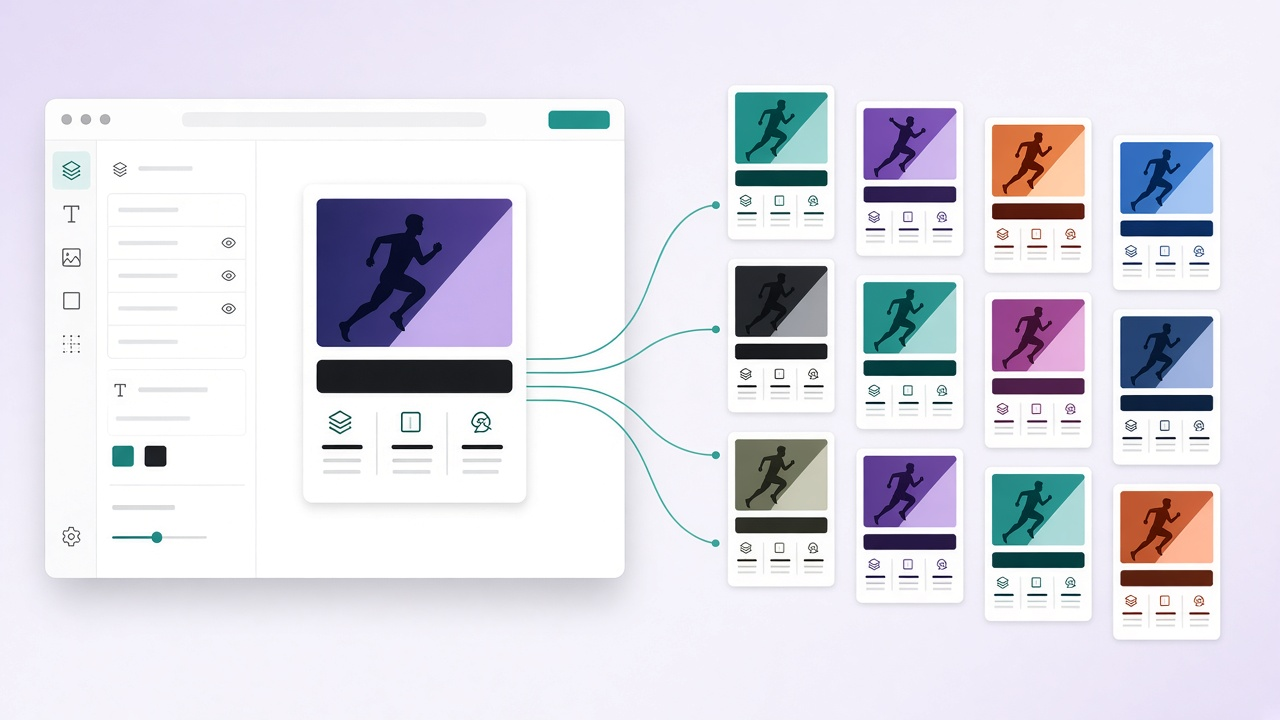
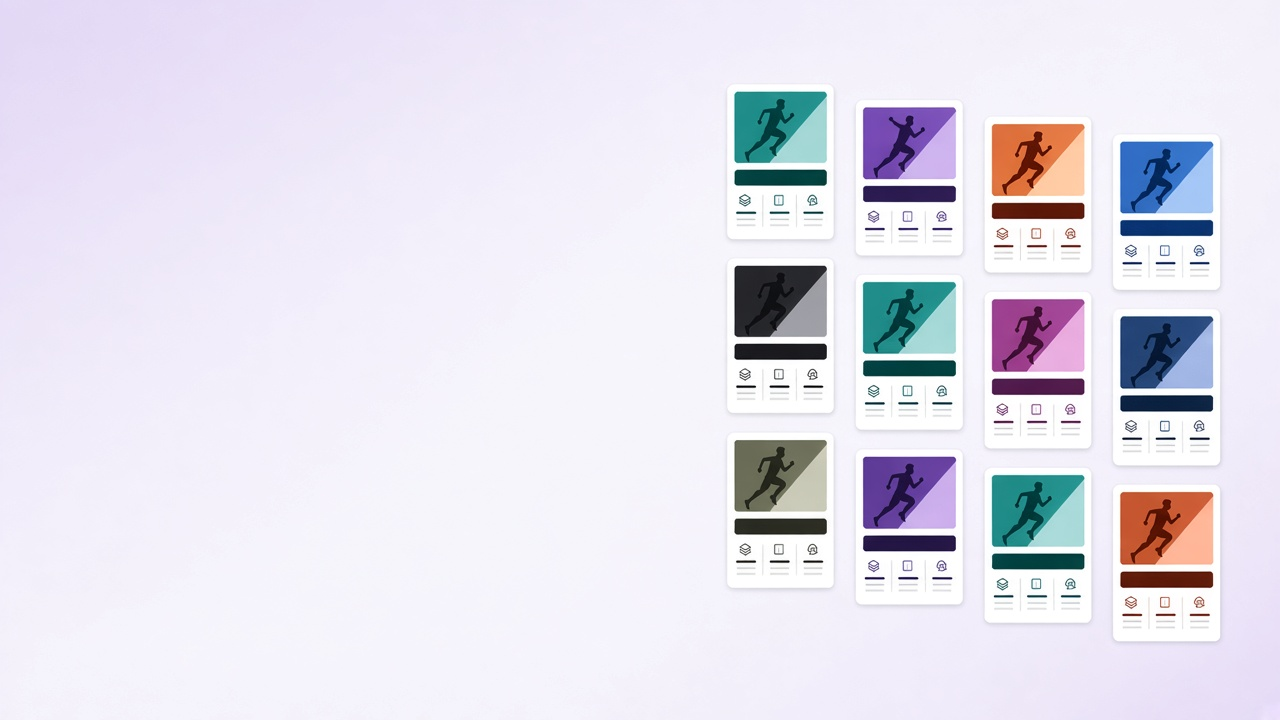
Editor Lab card: landing-page headline over new illustration

diff --git a/src/sections/Work.jsx b/src/sections/Work.jsx
@@ -15,6 +15,22 @@ const ProjectCard = ({ p, featured }) => {
           loading="lazy"
           className="h-full w-full object-cover object-top transition-transform duration-700 ease-out-expo group-hover:scale-[1.04]"
         />
+        {p.overlay && (
+          <div className="absolute inset-y-0 left-0 flex w-[55%] flex-col justify-center gap-2 p-4 sm:gap-4 sm:p-8 lg:p-12">
+            <span className="w-fit rounded-full bg-card px-2.5 py-1 text-[10px] font-medium text-teal-deep shadow-sm sm:text-xs">
+              {p.overlay.tag}
+            </span>
+            <p className="text-lg font-medium leading-[1.05] tracking-[-0.035em] sm:text-3xl lg:text-[2.6rem]">
+              {p.overlay.title.map((line) => (
+                <span key={line} className="block">{line}</span>
+              ))}
+            </p>
+            <p className="hidden max-w-xs text-sm leading-relaxed text-ink/65 sm:block">{p.overlay.body}</p>
+            <span className="hidden w-fit items-center gap-2 rounded-full bg-ink px-4 py-2 text-xs font-medium text-white sm:inline-flex">
+              Generate all <ArrowUpRight className="size-3.5" />
+            </span>
+          </div>
+        )}
         {p.href && (
           <span className="absolute right-3 top-3 grid size-10 place-items-center rounded-full bg-card opacity-0 shadow transition duration-300 group-hover:opacity-100">
             <ArrowUpRight className="size-4" />

diff --git a/src/data.js b/src/data.js
@@ -40,6 +40,11 @@ export const projects = [
       "Visual template editor that turns one base poster into hundreds of customized ones, with REST APIs for external apps.",
     tags: ["React.js", "FastAPI", "AWS EC2", "Amazon S3"],
     image: "/projects/editor-lab.jpg",
+    overlay: {
+      tag: "Editor Lab",
+      title: ["One template.", "Hundreds of posters."],
+      body: "Edit the design once and regenerate every poster in a single click.",
+    },
   },
   {
     title: "PrepMate AI",
